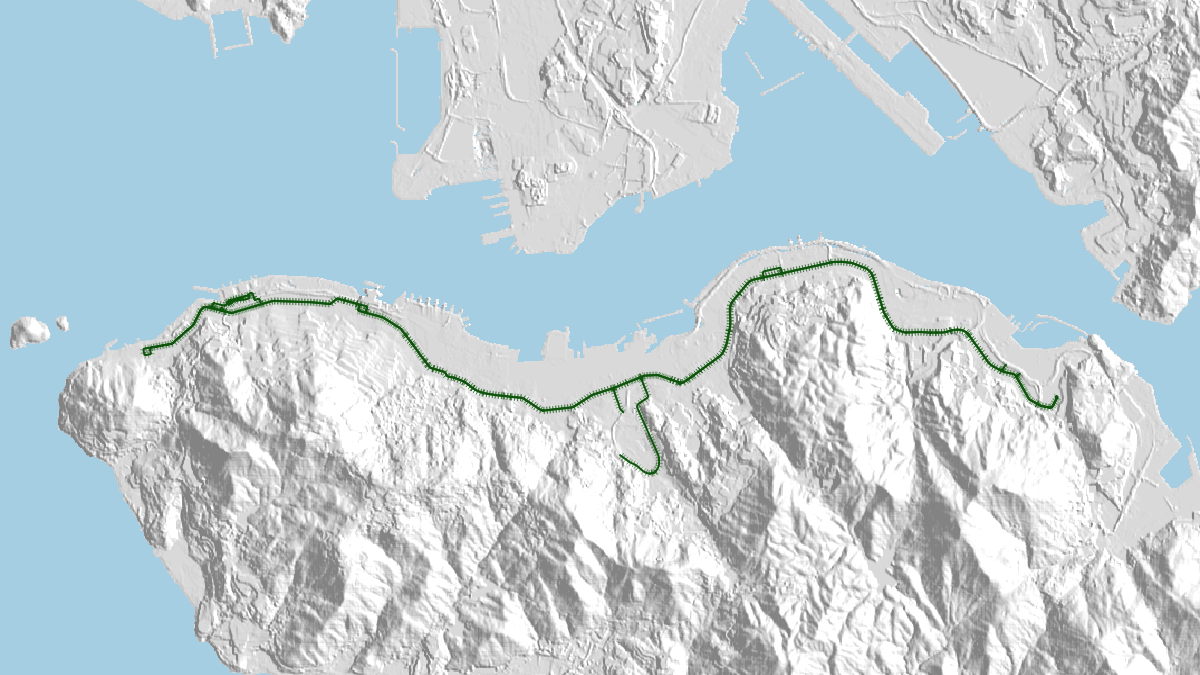
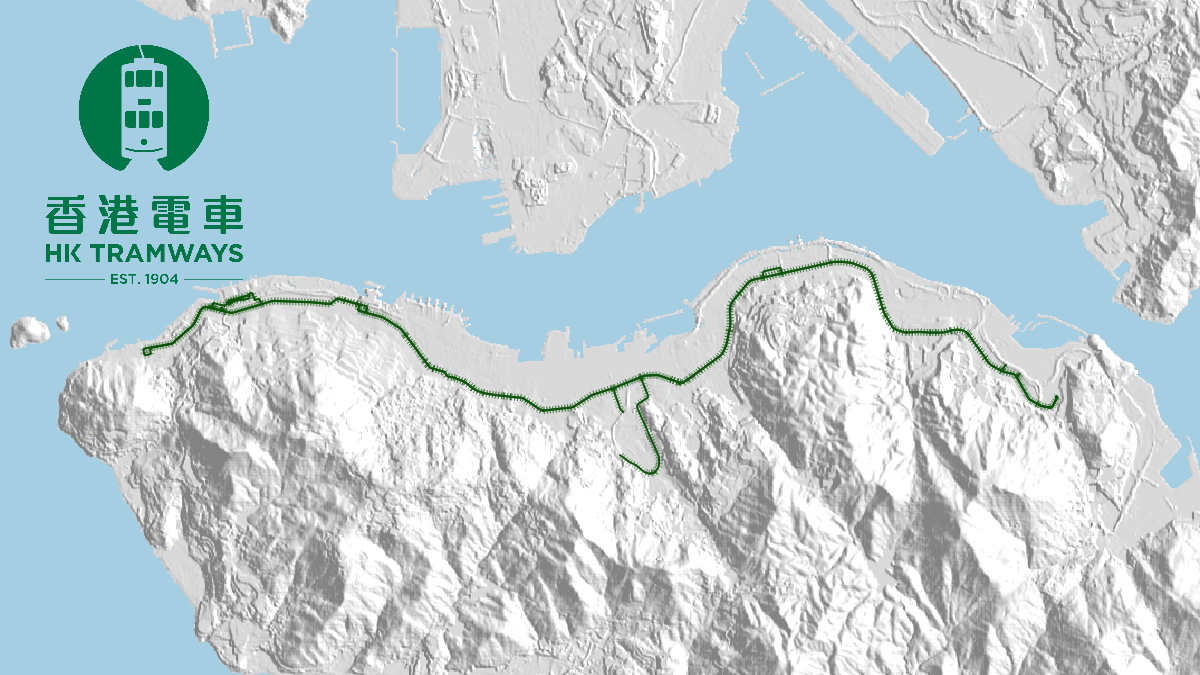
day 4

Changed region(s): [[0.0308, 0.28, 0.2158, 0.4356], [0.0617, 0.0622, 0.185, 0.2489]]

diff --git a/README.md b/README.md
@@ -3,7 +3,7 @@
 This is my repository for all my submissions for the #30DayMapChallenge initiated by [@tjukanovt](https://twitter.com/tjukanov). For the official repository of the event, please see this [GitHub repo](https://github.com/tjukanovt/30DayMapChallenge).
 
 
-## || Day 1 || Points
+## || Day 1 || Points - Hong Kong Lampposts Map
 ![Hong Kong Lampposts Map](maps/day1/Wallpaper.png)
 
 A collection of lampposts in Hong Kong that are found in the now open dataset Digital Topogrphic Map iB1000. Interestingly as we have lampposts that are relatively closer to other major cities, the lampposts can really become an impressionist tool to illustrate public roads in Hong Kong.
@@ -12,11 +12,20 @@ A collection of lampposts in Hong Kong that are found in the now open dataset Di
 
 🔨🔧 Tools and Steps: QGIS, points feature blending hard light
 
-## || Day 2 || Lines
-![Hong Kong Tram Line](maps/day2/Wallpaper.png)
+## || Day 2 || Lines - HK Tramways
+![HK Tramways](maps/day2/Wallpaper.png)
 
 A quick render of the iconic tram tracks on the Hong Kong Island. It was mostly built along the coastline around 100 years ago and has become a reminder of the natural coastline. My grandma would travel from East side to West side, to buy kilos of rice and carry it back on tram due to its cheap fare.
 
 🗺 Data: iB5000 Rail Line, Lands Department Hong Kong.
 
 🔨🔧 Tools and Steps: QGIS, hillshade styling for DEM, line styling for rail
+
+## || Day 4 || Hexagons - Hong Kong Buildings in Hexagons
+![Hong Kong Tram Line](maps/day4/Wallpaper.png)
+
+Summary of number of buildings grouped into hexagons in Hong Kong, each hexagon is 3km wide.
+
+🗺 Data: iB5000 Buildings Point, Lands Department Hong Kong. Digital Terrain Model, Lands Department Hong Kong.
+
+🔨🔧 Tools and Steps: QGIS, create grid, summarize building points in hexagon, calculate max elevation from DEM, change to gradual symbols and add border layer to simple fill.
